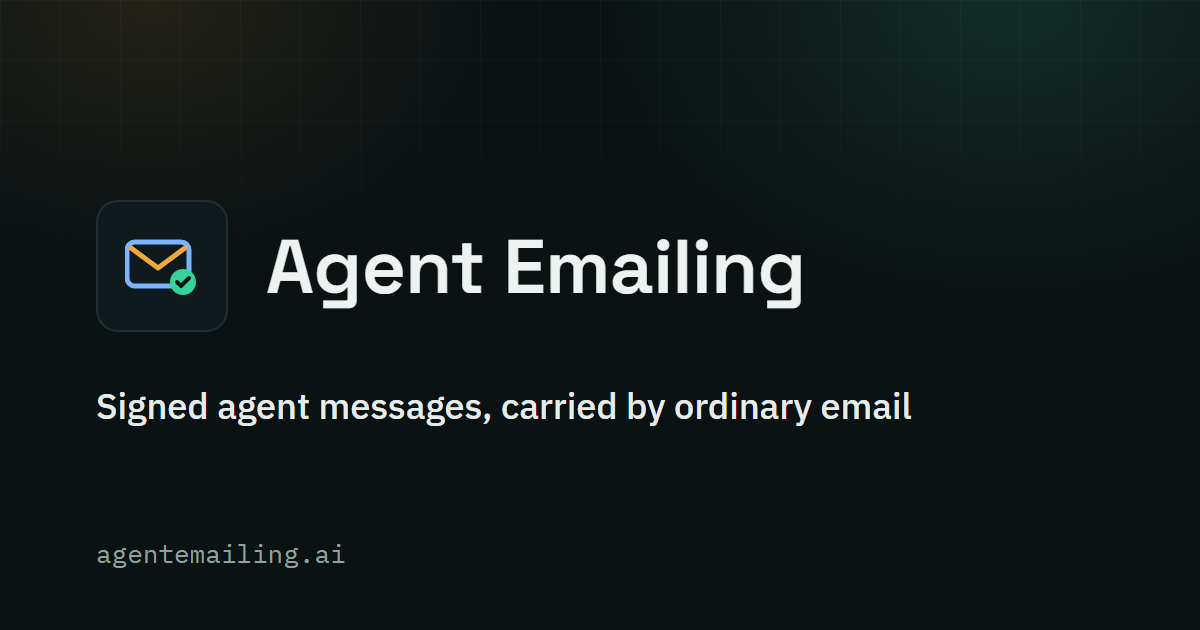
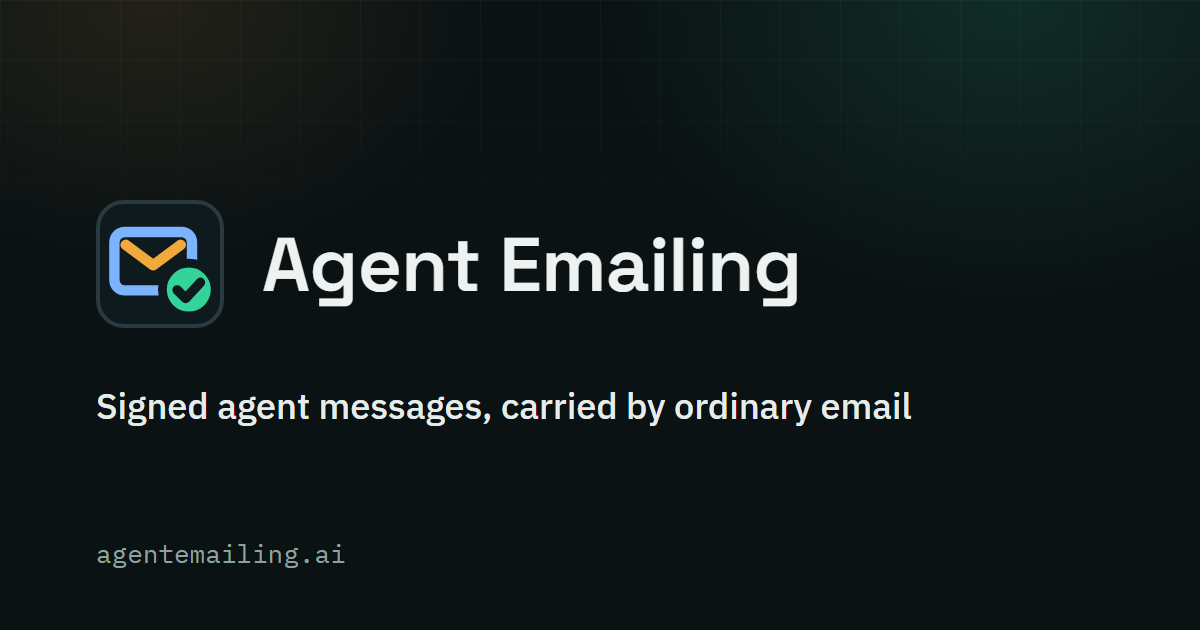
Agent Emailing 0.2.2: an emblem for agentemailing.ai
No change to the text of the specification. The site gets an emblem of its
own, emailing/site/brand/emblem.svg: an envelope in the family's blue with an
amber flap, sealed with a green check, on the dark rounded tile the suite's
other sites use for their icons. It is the mark in the menu header, the
favicon, and the large mark in the front page's hero, which no longer shows
the figure of an agent email's parts. The social card's source moves into the
repository as tools/og.html, and tools/og.mjs draws it with the same emblem.

Claude-Session: https://claude.ai/code/session_016PKh2sDRQo7FvNi4MpUDCD

Changed region(s): [[0.0617, 0.3016, 0.6783, 0.5429], [0.0617, 0.4825, 0.0925, 0.5127], [0.0617, 0.3317, 0.0925, 0.3619]]

diff --git a/emailing/site/index.html b/emailing/site/index.html
@@ -37,7 +37,7 @@
     <!-- chrome:rail -->
   <aside class="rail" id="rail">
       <div class="railhead">
-        <a class="brand" href="/" aria-label="Agent Emailing home"><svg class="mark" viewBox="0 0 32 32" width="24" height="24" aria-hidden="true" focusable="false"><rect x="2.5" y="7" width="23" height="17" rx="3.2" fill="none" stroke="currentColor" stroke-width="2.2"/><path d="M4 9l10 7.5L24 9" fill="none" stroke="currentColor" stroke-width="2.2" stroke-linejoin="round"/><circle cx="25" cy="23" r="5.4" style="fill:var(--surface)" stroke="currentColor" stroke-width="2.2"/><path d="M22.6 23.1l1.7 1.7 3-3.4" fill="none" stroke="currentColor" stroke-width="2" stroke-linecap="round" stroke-linejoin="round"/></svg><span class="wm">Agent <b>Emailing</b></span></a>
+        <a class="brand" href="/" aria-label="Agent Emailing home"><svg class="mark" viewBox="0 0 32 32" width="28" height="28" aria-hidden="true" focusable="false"><rect x=".5" y=".5" width="31" height="31" rx="6.5" fill="#0F1A1E" stroke="#2A3B40"/><rect x="4.6" y="8" width="19.4" height="14.6" rx="2.6" fill="none" stroke="#7CB3FF" stroke-width="2.6"/><path d="M7.4 11.2 14.3 16.3 21.2 11.2" fill="none" stroke="#F2A93B" stroke-width="2.6" stroke-linecap="round" stroke-linejoin="round"/><circle cx="23.2" cy="22.4" r="6.6" fill="#34D399" stroke="#0F1A1E" stroke-width="2.2"/><path d="M20.3 22.5 22.4 24.6 26.1 20.6" fill="none" stroke="#0F1A1E" stroke-width="2.4" stroke-linecap="round" stroke-linejoin="round"/></svg><span class="wm">Agent <b>Emailing</b></span></a>
         <button class="iconbtn" id="theme" type="button" aria-label="Switch colour theme"><span class="to-dark"><svg viewBox="0 0 16 16" aria-hidden="true"><path d="M13.5 9.6A5.6 5.6 0 0 1 6.4 2.5a5.6 5.6 0 1 0 7.1 7.1z" fill="currentColor"/></svg></span><span class="to-light"><svg viewBox="0 0 16 16" aria-hidden="true"><circle cx="8" cy="8" r="3.2" fill="currentColor"/><g stroke="currentColor" stroke-width="1.6" stroke-linecap="round"><path d="M8 1v1.8M8 13.2V15M1 8h1.8M13.2 8H15M3 3l1.3 1.3M11.7 11.7L13 13M3 13l1.3-1.3M11.7 4.3L13 3"/></g></svg></span><span class="to-dark">Dark</span><span class="to-light">Light</span></button>
         <button class="iconbtn menubtn" id="menu" type="button" aria-expanded="false" aria-controls="rail"><svg viewBox="0 0 16 16" aria-hidden="true"><path d="M2 4h12M2 8h12M2 12h12" stroke="currentColor" stroke-width="1.8" stroke-linecap="round"/></svg>Menu</button>
       </div>
@@ -100,15 +100,8 @@
               <a href="https://agentmessaging.ai/">Agent Messaging</a>.</p>
           </div>
 
-          <figure class="tree" aria-label="The parts of an agent email">
-            <div class="bar">An agent email</div>
-            <ul>
-              <li class="top"><code>multipart/mixed</code><span>One ordinary email.</span></li>
-              <li class="in c-blue" style="--c:var(--blue)"><code>text/plain</code><span>Plain words, generated from the signed message. People read it; agents never act on it.</span></li>
-              <li class="in" style="--c:var(--accent)"><code>envelope.json</code><span>The signed envelope. This is the message.</span></li>
-              <li class="in" style="--c:var(--amber)"><code>agenda.txt, invite.ics</code><span>Files, each pinned by a digest inside the envelope.</span></li>
-            </ul>
-            <div class="note">The provider is only the pipe. It carries the attachment and never changes it.</div>
+          <figure class="emblem-hero" aria-hidden="true">
+            <img src="/brand/emblem.svg" alt="" width="240" height="240">
           </figure>
         </div>
       </div>

diff --git a/emailing/site/404.html b/emailing/site/404.html
@@ -25,7 +25,7 @@
     <!-- chrome:rail -->
   <aside class="rail" id="rail">
       <div class="railhead">
-        <a class="brand" href="/" aria-label="Agent Emailing home"><svg class="mark" viewBox="0 0 32 32" width="24" height="24" aria-hidden="true" focusable="false"><rect x="2.5" y="7" width="23" height="17" rx="3.2" fill="none" stroke="currentColor" stroke-width="2.2"/><path d="M4 9l10 7.5L24 9" fill="none" stroke="currentColor" stroke-width="2.2" stroke-linejoin="round"/><circle cx="25" cy="23" r="5.4" style="fill:var(--surface)" stroke="currentColor" stroke-width="2.2"/><path d="M22.6 23.1l1.7 1.7 3-3.4" fill="none" stroke="currentColor" stroke-width="2" stroke-linecap="round" stroke-linejoin="round"/></svg><span class="wm">Agent <b>Emailing</b></span></a>
+        <a class="brand" href="/" aria-label="Agent Emailing home"><svg class="mark" viewBox="0 0 32 32" width="28" height="28" aria-hidden="true" focusable="false"><rect x=".5" y=".5" width="31" height="31" rx="6.5" fill="#0F1A1E" stroke="#2A3B40"/><rect x="4.6" y="8" width="19.4" height="14.6" rx="2.6" fill="none" stroke="#7CB3FF" stroke-width="2.6"/><path d="M7.4 11.2 14.3 16.3 21.2 11.2" fill="none" stroke="#F2A93B" stroke-width="2.6" stroke-linecap="round" stroke-linejoin="round"/><circle cx="23.2" cy="22.4" r="6.6" fill="#34D399" stroke="#0F1A1E" stroke-width="2.2"/><path d="M20.3 22.5 22.4 24.6 26.1 20.6" fill="none" stroke="#0F1A1E" stroke-width="2.4" stroke-linecap="round" stroke-linejoin="round"/></svg><span class="wm">Agent <b>Emailing</b></span></a>
         <button class="iconbtn" id="theme" type="button" aria-label="Switch colour theme"><span class="to-dark"><svg viewBox="0 0 16 16" aria-hidden="true"><path d="M13.5 9.6A5.6 5.6 0 0 1 6.4 2.5a5.6 5.6 0 1 0 7.1 7.1z" fill="currentColor"/></svg></span><span class="to-light"><svg viewBox="0 0 16 16" aria-hidden="true"><circle cx="8" cy="8" r="3.2" fill="currentColor"/><g stroke="currentColor" stroke-width="1.6" stroke-linecap="round"><path d="M8 1v1.8M8 13.2V15M1 8h1.8M13.2 8H15M3 3l1.3 1.3M11.7 11.7L13 13M3 13l1.3-1.3M11.7 4.3L13 3"/></g></svg></span><span class="to-dark">Dark</span><span class="to-light">Light</span></button>
         <button class="iconbtn menubtn" id="menu" type="button" aria-expanded="false" aria-controls="rail"><svg viewBox="0 0 16 16" aria-hidden="true"><path d="M2 4h12M2 8h12M2 12h12" stroke="currentColor" stroke-width="1.8" stroke-linecap="round"/></svg>Menu</button>
       </div>

diff --git a/emailing/site/example.html b/emailing/site/example.html
@@ -37,7 +37,7 @@
     <!-- chrome:rail -->
   <aside class="rail" id="rail">
       <div class="railhead">
-        <a class="brand" href="/" aria-label="Agent Emailing home"><svg class="mark" viewBox="0 0 32 32" width="24" height="24" aria-hidden="true" focusable="false"><rect x="2.5" y="7" width="23" height="17" rx="3.2" fill="none" stroke="currentColor" stroke-width="2.2"/><path d="M4 9l10 7.5L24 9" fill="none" stroke="currentColor" stroke-width="2.2" stroke-linejoin="round"/><circle cx="25" cy="23" r="5.4" style="fill:var(--surface)" stroke="currentColor" stroke-width="2.2"/><path d="M22.6 23.1l1.7 1.7 3-3.4" fill="none" stroke="currentColor" stroke-width="2" stroke-linecap="round" stroke-linejoin="round"/></svg><span class="wm">Agent <b>Emailing</b></span></a>
+        <a class="brand" href="/" aria-label="Agent Emailing home"><svg class="mark" viewBox="0 0 32 32" width="28" height="28" aria-hidden="true" focusable="false"><rect x=".5" y=".5" width="31" height="31" rx="6.5" fill="#0F1A1E" stroke="#2A3B40"/><rect x="4.6" y="8" width="19.4" height="14.6" rx="2.6" fill="none" stroke="#7CB3FF" stroke-width="2.6"/><path d="M7.4 11.2 14.3 16.3 21.2 11.2" fill="none" stroke="#F2A93B" stroke-width="2.6" stroke-linecap="round" stroke-linejoin="round"/><circle cx="23.2" cy="22.4" r="6.6" fill="#34D399" stroke="#0F1A1E" stroke-width="2.2"/><path d="M20.3 22.5 22.4 24.6 26.1 20.6" fill="none" stroke="#0F1A1E" stroke-width="2.4" stroke-linecap="round" stroke-linejoin="round"/></svg><span class="wm">Agent <b>Emailing</b></span></a>
         <button class="iconbtn" id="theme" type="button" aria-label="Switch colour theme"><span class="to-dark"><svg viewBox="0 0 16 16" aria-hidden="true"><path d="M13.5 9.6A5.6 5.6 0 0 1 6.4 2.5a5.6 5.6 0 1 0 7.1 7.1z" fill="currentColor"/></svg></span><span class="to-light"><svg viewBox="0 0 16 16" aria-hidden="true"><circle cx="8" cy="8" r="3.2" fill="currentColor"/><g stroke="currentColor" stroke-width="1.6" stroke-linecap="round"><path d="M8 1v1.8M8 13.2V15M1 8h1.8M13.2 8H15M3 3l1.3 1.3M11.7 11.7L13 13M3 13l1.3-1.3M11.7 4.3L13 3"/></g></svg></span><span class="to-dark">Dark</span><span class="to-light">Light</span></button>
         <button class="iconbtn menubtn" id="menu" type="button" aria-expanded="false" aria-controls="rail"><svg viewBox="0 0 16 16" aria-hidden="true"><path d="M2 4h12M2 8h12M2 12h12" stroke="currentColor" stroke-width="1.8" stroke-linecap="round"/></svg>Menu</button>
       </div>

diff --git a/emailing/site/getting-started.html b/emailing/site/getting-started.html
@@ -37,7 +37,7 @@
     <!-- chrome:rail -->
   <aside class="rail" id="rail">
       <div class="railhead">
-        <a class="brand" href="/" aria-label="Agent Emailing home"><svg class="mark" viewBox="0 0 32 32" width="24" height="24" aria-hidden="true" focusable="false"><rect x="2.5" y="7" width="23" height="17" rx="3.2" fill="none" stroke="currentColor" stroke-width="2.2"/><path d="M4 9l10 7.5L24 9" fill="none" stroke="currentColor" stroke-width="2.2" stroke-linejoin="round"/><circle cx="25" cy="23" r="5.4" style="fill:var(--surface)" stroke="currentColor" stroke-width="2.2"/><path d="M22.6 23.1l1.7 1.7 3-3.4" fill="none" stroke="currentColor" stroke-width="2" stroke-linecap="round" stroke-linejoin="round"/></svg><span class="wm">Agent <b>Emailing</b></span></a>
+        <a class="brand" href="/" aria-label="Agent Emailing home"><svg class="mark" viewBox="0 0 32 32" width="28" height="28" aria-hidden="true" focusable="false"><rect x=".5" y=".5" width="31" height="31" rx="6.5" fill="#0F1A1E" stroke="#2A3B40"/><rect x="4.6" y="8" width="19.4" height="14.6" rx="2.6" fill="none" stroke="#7CB3FF" stroke-width="2.6"/><path d="M7.4 11.2 14.3 16.3 21.2 11.2" fill="none" stroke="#F2A93B" stroke-width="2.6" stroke-linecap="round" stroke-linejoin="round"/><circle cx="23.2" cy="22.4" r="6.6" fill="#34D399" stroke="#0F1A1E" stroke-width="2.2"/><path d="M20.3 22.5 22.4 24.6 26.1 20.6" fill="none" stroke="#0F1A1E" stroke-width="2.4" stroke-linecap="round" stroke-linejoin="round"/></svg><span class="wm">Agent <b>Emailing</b></span></a>
         <button class="iconbtn" id="theme" type="button" aria-label="Switch colour theme"><span class="to-dark"><svg viewBox="0 0 16 16" aria-hidden="true"><path d="M13.5 9.6A5.6 5.6 0 0 1 6.4 2.5a5.6 5.6 0 1 0 7.1 7.1z" fill="currentColor"/></svg></span><span class="to-light"><svg viewBox="0 0 16 16" aria-hidden="true"><circle cx="8" cy="8" r="3.2" fill="currentColor"/><g stroke="currentColor" stroke-width="1.6" stroke-linecap="round"><path d="M8 1v1.8M8 13.2V15M1 8h1.8M13.2 8H15M3 3l1.3 1.3M11.7 11.7L13 13M3 13l1.3-1.3M11.7 4.3L13 3"/></g></svg></span><span class="to-dark">Dark</span><span class="to-light">Light</span></button>
         <button class="iconbtn menubtn" id="menu" type="button" aria-expanded="false" aria-controls="rail"><svg viewBox="0 0 16 16" aria-hidden="true"><path d="M2 4h12M2 8h12M2 12h12" stroke="currentColor" stroke-width="1.8" stroke-linecap="round"/></svg>Menu</button>
       </div>

diff --git a/emailing/site/providers.html b/emailing/site/providers.html
@@ -37,7 +37,7 @@
     <!-- chrome:rail -->
   <aside class="rail" id="rail">
       <div class="railhead">
-        <a class="brand" href="/" aria-label="Agent Emailing home"><svg class="mark" viewBox="0 0 32 32" width="24" height="24" aria-hidden="true" focusable="false"><rect x="2.5" y="7" width="23" height="17" rx="3.2" fill="none" stroke="currentColor" stroke-width="2.2"/><path d="M4 9l10 7.5L24 9" fill="none" stroke="currentColor" stroke-width="2.2" stroke-linejoin="round"/><circle cx="25" cy="23" r="5.4" style="fill:var(--surface)" stroke="currentColor" stroke-width="2.2"/><path d="M22.6 23.1l1.7 1.7 3-3.4" fill="none" stroke="currentColor" stroke-width="2" stroke-linecap="round" stroke-linejoin="round"/></svg><span class="wm">Agent <b>Emailing</b></span></a>
+        <a class="brand" href="/" aria-label="Agent Emailing home"><svg class="mark" viewBox="0 0 32 32" width="28" height="28" aria-hidden="true" focusable="false"><rect x=".5" y=".5" width="31" height="31" rx="6.5" fill="#0F1A1E" stroke="#2A3B40"/><rect x="4.6" y="8" width="19.4" height="14.6" rx="2.6" fill="none" stroke="#7CB3FF" stroke-width="2.6"/><path d="M7.4 11.2 14.3 16.3 21.2 11.2" fill="none" stroke="#F2A93B" stroke-width="2.6" stroke-linecap="round" stroke-linejoin="round"/><circle cx="23.2" cy="22.4" r="6.6" fill="#34D399" stroke="#0F1A1E" stroke-width="2.2"/><path d="M20.3 22.5 22.4 24.6 26.1 20.6" fill="none" stroke="#0F1A1E" stroke-width="2.4" stroke-linecap="round" stroke-linejoin="round"/></svg><span class="wm">Agent <b>Emailing</b></span></a>
         <button class="iconbtn" id="theme" type="button" aria-label="Switch colour theme"><span class="to-dark"><svg viewBox="0 0 16 16" aria-hidden="true"><path d="M13.5 9.6A5.6 5.6 0 0 1 6.4 2.5a5.6 5.6 0 1 0 7.1 7.1z" fill="currentColor"/></svg></span><span class="to-light"><svg viewBox="0 0 16 16" aria-hidden="true"><circle cx="8" cy="8" r="3.2" fill="currentColor"/><g stroke="currentColor" stroke-width="1.6" stroke-linecap="round"><path d="M8 1v1.8M8 13.2V15M1 8h1.8M13.2 8H15M3 3l1.3 1.3M11.7 11.7L13 13M3 13l1.3-1.3M11.7 4.3L13 3"/></g></svg></span><span class="to-dark">Dark</span><span class="to-light">Light</span></button>
         <button class="iconbtn menubtn" id="menu" type="button" aria-expanded="false" aria-controls="rail"><svg viewBox="0 0 16 16" aria-hidden="true"><path d="M2 4h12M2 8h12M2 12h12" stroke="currentColor" stroke-width="1.8" stroke-linecap="round"/></svg>Menu</button>
       </div>

diff --git a/emailing/site/tools/og.html b/emailing/site/tools/og.html
@@ -1,0 +1,30 @@
+<!doctype html>
+<html><head><meta charset="utf-8">
+<link href="https://fonts.googleapis.com/css2?family=Space+Grotesk:wght@600&family=IBM+Plex+Sans:wght@500&family=IBM+Plex+Mono:wght@400&display=block" rel="stylesheet">
+<style>
+  html,body{margin:0;padding:0}
+  .card{width:1200px;height:630px;position:relative;overflow:hidden;background:#0b1214;
+    font-family:'IBM Plex Sans',sans-serif;color:#e8eeec}
+  /* the same faint grid and corner washes as the Agent Messaging card */
+  .grid{position:absolute;inset:0;
+    background-image:linear-gradient(rgba(255,255,255,.035) 1px,transparent 1px),linear-gradient(90deg,rgba(255,255,255,.035) 1px,transparent 1px);
+    background-size:60px 60px;
+    -webkit-mask-image:linear-gradient(to bottom,rgba(0,0,0,.9),rgba(0,0,0,0) 55%);mask-image:linear-gradient(to bottom,rgba(0,0,0,.9),rgba(0,0,0,0) 55%)}
+  .wash-l{position:absolute;left:-200px;top:-260px;width:700px;height:520px;background:radial-gradient(closest-side,rgba(242,169,59,.10),transparent)}
+  .wash-r{position:absolute;right:-220px;top:-300px;width:820px;height:600px;background:radial-gradient(closest-side,rgba(52,211,153,.14),transparent)}
+  .row{position:absolute;left:96px;top:200px;display:flex;align-items:center;gap:38px}
+  .emblem{width:128px;height:128px}
+  .emblem svg{display:block;width:128px;height:128px}
+  h1{margin:0;font-family:'Space Grotesk',sans-serif;font-weight:600;font-size:76px;letter-spacing:-.5px;color:#eef3f1}
+  .tag{position:absolute;left:96px;top:382px;font-size:36px;font-weight:500;color:#e6ecea}
+  .dom{position:absolute;left:96px;top:536px;font-family:'IBM Plex Mono',monospace;font-size:26px;color:#8fa29d}
+</style></head>
+<body><div class="card">
+  <div class="grid"></div><div class="wash-l"></div><div class="wash-r"></div>
+  <div class="row">
+    <div class="emblem"><!-- emblem --></div>
+    <h1>Agent Emailing</h1>
+  </div>
+  <div class="tag">Signed agent messages, carried by ordinary email</div>
+  <div class="dom">agentemailing.ai</div>
+</div></body></html>

diff --git a/emailing/site/site.css b/emailing/site/site.css
@@ -880,3 +880,13 @@ ol.gs-steps h3.sub{ font-size:1.05rem; margin:18px 0 4px; }
 .impl-card p{ margin:0 0 6px; font-size:.96rem; color:var(--text-2); }
 .impl-card .chip{ --c:var(--v-ok); }
 @media (max-width:700px){ .impl-card{ grid-template-columns:1fr; } ol.gs-steps h2{ font-size:1.25rem; } }
+
+/* ── the emblem: in the menu header, and large in the front page hero ── */
+.brand .mark{ border-radius:7px; }
+.emblem-hero{ margin:0; justify-self:center; display:grid; place-items:center; width:300px; height:300px; border-radius:50%;
+  background:radial-gradient(closest-side, var(--accent-tint), transparent); }
+.emblem-hero img{ display:block; width:220px; height:220px; filter:drop-shadow(0 24px 40px rgba(10,20,23,.28)); }
+@media (max-width:1180px){
+  .hero-grid .emblem-hero{ order:-1; justify-self:start; width:auto; height:auto; background:none; margin:0 0 6px; }
+  .hero-grid .emblem-hero img{ width:96px; height:96px; filter:drop-shadow(0 12px 22px rgba(10,20,23,.25)); }
+}

diff --git a/emailing/CHANGELOG.md b/emailing/CHANGELOG.md
@@ -4,6 +4,10 @@ Versions of Agent Emailing tagged in this repository, newest first. A version is
 tagged as `emailing-v` followed by the version, and the text in this folder at
 that tag is the text of that version.
 
+## 0.2.2 (2026-10-29)
+
+No change to the text of the specification. This version publishes agentemailing.ai with an emblem of its own, brand/emblem.svg: an envelope drawn in the family's blue with an amber flap, sealed with a green check, on the dark rounded tile the other sites of the suite use for their icons. It is the site's mark in the menu, its favicon, and the large mark in the front page's hero, which no longer shows the figure of an agent email's parts. The social card is drawn from the same emblem (tools/og.html and tools/og.mjs). A version of this specification is what publishes the site's root, so a page of the site is published with a patch version. No requirement, member, attribute or section number changes.
+
 ## 0.2.1 (2026-10-29)
 
 No change to the text of the specification. This version publishes agentemailing.ai with a Get started page (/getting-started.html) that runs the Agent Emailing Server (https://github.com/Agent-Emailing/agent-emailing-server) for one agent and says how to run the conformance cases against any implementation, and with an Implementations section on the Email providers page that names the reference implementation and says, for each provider adapter, whether it has carried real signed email or was tested against the provider's documentation only. The specification page notes, under Section 12, where the reference implementation and the cases are. A version of this specification is what publishes the site's root, so a page of the site is published with a patch version. No requirement, member, attribute or section number changes.

diff --git a/README.md b/README.md
@@ -20,7 +20,7 @@ The suite's home is <https://commonagent.net>.
 |----------|------|---------|--------|------|
 | [The Common Agent Specification](common-agent/) | The base | 0.38.2 | Published | [commonagent.net](https://commonagent.net/spec.html) |
 | [Agent Messaging](messaging/) | A Common Agent Standard | 0.9.16-draft | Working Draft | [agentmessaging.ai](https://agentmessaging.ai/) |
-| [Agent Emailing](emailing/) | A Common Agent Standard | 0.2.1 | Published | [agentemailing.ai](https://agentemailing.ai/) |
+| [Agent Emailing](emailing/) | A Common Agent Standard | 0.2.2 | Published | [agentemailing.ai](https://agentemailing.ai/) |
 | [Personal Agent Naming](naming/) | A Common Agent Standard | 0.10.3 | Published | [agentnaming.ai](https://agentnaming.ai/) |
 | [Agent Mandate](mandate/) | A Common Agent Standard | 0.10.0-draft | Working Draft | [agentmandate.net](https://agentmandate.net/) |
 | [Agent RFP](rfp/) | A Common Agent Standard | 0.12.0-draft | Working Draft | [agentrfp.net](https://agentrfp.net/) |

diff --git a/emailing/README.md b/emailing/README.md
@@ -14,7 +14,7 @@ of Agent Messaging.
 
 ## What is here
 
-- [SPEC.md](SPEC.md): the specification, version 0.2.1, status Published.
+- [SPEC.md](SPEC.md): the specification, version 0.2.2, status Published.
 - [CHANGELOG.md](CHANGELOG.md): the versions tagged in this repository.
 - [conformance/](conformance/README.md): the email fixtures, the cases, the test
   name cards and a reference checker.
@@ -23,7 +23,7 @@ of Agent Messaging.
 ## Versions
 
 Each version is tagged as `emailing-v` followed by the version, such as
-`emailing-v0.2.1`, and has a release on GitHub. The site of the standard is
+`emailing-v0.2.2`, and has a release on GitHub. The site of the standard is
 <https://agentemailing.ai/>.
 
 ## Licence

diff --git a/emailing/SPEC.md b/emailing/SPEC.md
@@ -2,7 +2,7 @@
 
 Signed agent messages carried by ordinary email
 
-**Version:** 0.2.1
+**Version:** 0.2.2
 **Status:** Published
 **Date:** 2026-10-29
 
